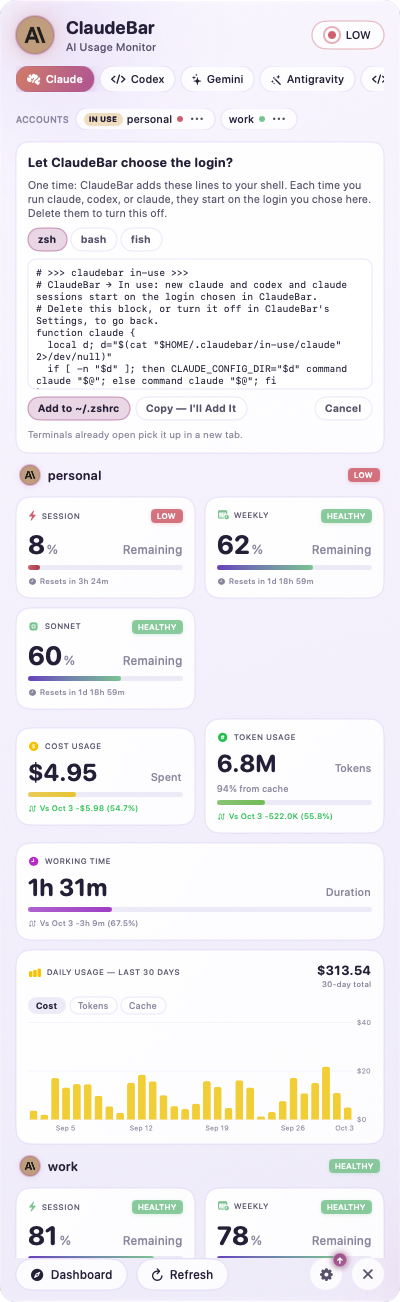
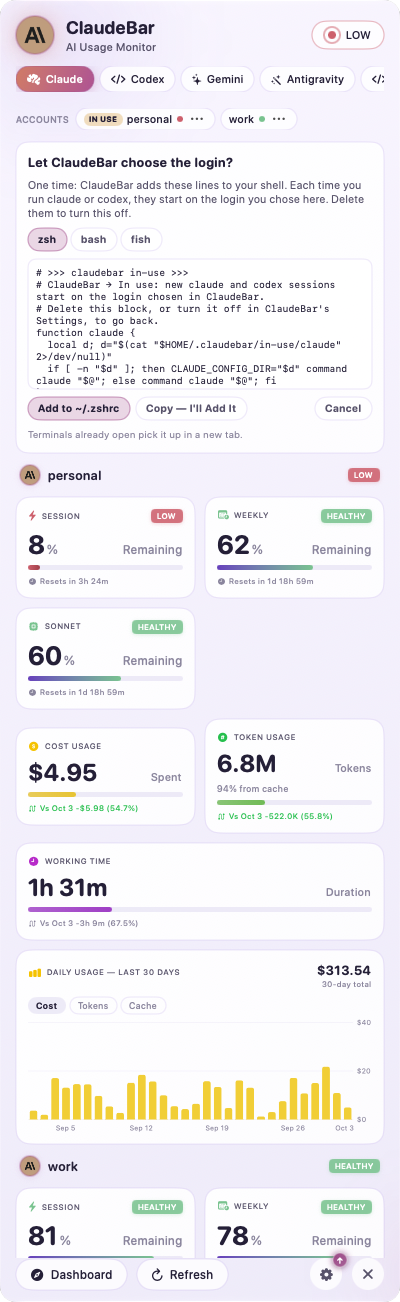
fix(in-use): the choice belongs to the CLI, wrapped once
The shell starts a CLI, not a product: the record is
~/.claudebar/in-use/<command>, two products on one CLI share it (the last
choice wins), and ShellSetup and NewSessions name each CLI once — the
setup no longer says "claude, codex, or claude" or writes claude twice.
Designed in CANONICAL §5 and the in-use design first, confirmed, then built.

diff --git a/Modules/Providers/Sources/InUse.swift b/Modules/Providers/Sources/InUse.swift
@@ -6,7 +6,9 @@ import Quotas
 /// *In use* — which of a product's logins new terminal sessions start with.
 /// Only a product whose CLI can be started on a login's folder has one
 /// (`Provider.inUse`). The choice is recorded as that folder, through
-/// `LoginsInUse`, where the shell lines read it; running sessions keep theirs.
+/// `LoginsInUse`, under the CLI's name — the shell starts a CLI, not a
+/// product, so two products on one CLI share its record and the last choice
+/// wins. Running sessions keep theirs.
 @MainActor
 @Observable
 public final class InUse {
@@ -27,7 +29,7 @@ public final class InUse {
         self.switchWhenLow = switchWhenLow
         self.loginId = provider.defaultAccount.id
         // A record naming a folder no login has is the plain login.
-        if let folder = record.folder(for: provider.id),
+        if let folder = record.folder(for: command.name),
            let chosen = provider.accounts.first(where: { $0.folder?.url.path == folder.standardizedFileURL.path }) {
             loginId = chosen.id
         }
@@ -51,7 +53,7 @@ public final class InUse {
         guard logins.contains(where: { $0 === account }) else {
             throw UsageError.executionFailed("This login can't be used for new \(provider.name) sessions.")
         }
-        try record.use(account.isDefault ? nil : account.folder?.url, for: provider.id)
+        try record.use(account.isDefault ? nil : account.folder?.url, for: command.name)
         loginId = account.id
         AppLog.providers.info("\(provider.id): new sessions use \(account.isDefault ? "the plain login" : "an added login")")
     }
@@ -59,7 +61,7 @@ public final class InUse {
     /// The removed login was in use: new sessions go back to the plain login.
     func forget(_ account: Account) {
         guard loginId == account.id else { return }
-        try? record.use(nil, for: provider.id)
+        try? record.use(nil, for: command.name)
         loginId = provider.defaultAccount.id
     }
 
@@ -96,14 +98,13 @@ public final class InUse {
 /// The command new terminal sessions run, and the variable that starts it on
 /// a login's folder: `claude` with `CLAUDE_CONFIG_DIR`.
 public struct TerminalCommand: Sendable, Equatable {
+    /// The CLI — and the name its choice is recorded under.
     public let name: String
     public let variable: String
-    public let providerId: String
 
-    public init(name: String, variable: String, providerId: String) {
+    public init(name: String, variable: String) {
         self.name = name
         self.variable = variable
-        self.providerId = providerId
     }
 }
 

diff --git a/Modules/Providers/Sources/LoginsInUse.swift b/Modules/Providers/Sources/LoginsInUse.swift
@@ -1,17 +1,17 @@
 import Foundation
 import Mockable
 
-/// *In use* — which login new terminal sessions of a provider start with:
-/// one file per provider, `~/.claudebar/in-use/<provider>`, holding the
+/// *In use* — which login new terminal sessions of a CLI start with: one
+/// file per CLI, `~/.claudebar/in-use/<command>`, holding the
 /// login's folder. Empty, or no file, is the plain login the CLI already
 /// uses. The shell lines `ShellSetup` writes read it on every `claude` or
 /// `codex`, so the file is the only record: nothing else keeps a copy.
 @Mockable
 public protocol LoginsInUse: Sendable {
-    /// The folder new sessions of `providerId` start with — `nil` for the plain login.
-    func folder(for providerId: String) -> URL?
+    /// The folder new sessions of `command` start with — `nil` for the plain login.
+    func folder(for command: String) -> URL?
     /// Saves it; `nil` goes back to the plain login.
-    func use(_ folder: URL?, for providerId: String) throws
+    func use(_ folder: URL?, for command: String) throws
 }
 
 /// The real files, under `~/.claudebar/in-use`.
@@ -25,20 +25,20 @@ public struct DiskLoginsInUse: LoginsInUse {
         self.root = root
     }
 
-    public func folder(for providerId: String) -> URL? {
-        guard let text = try? String(contentsOf: file(for: providerId), encoding: .utf8) else { return nil }
+    public func folder(for command: String) -> URL? {
+        guard let text = try? String(contentsOf: file(for: command), encoding: .utf8) else { return nil }
         let path = text.trimmingCharacters(in: .whitespacesAndNewlines)
         return path.isEmpty ? nil : URL(fileURLWithPath: path).standardizedFileURL
     }
 
-    public func use(_ folder: URL?, for providerId: String) throws {
+    public func use(_ folder: URL?, for command: String) throws {
         try FileManager.default.createDirectory(at: root, withIntermediateDirectories: true)
         // Written whole and renamed into place, so a shell never reads half a path.
-        try Data((folder?.standardizedFileURL.path ?? "").utf8).write(to: file(for: providerId), options: .atomic)
+        try Data((folder?.standardizedFileURL.path ?? "").utf8).write(to: file(for: command), options: .atomic)
     }
 
-    public func file(for providerId: String) -> URL {
-        root.appendingPathComponent(providerId)
+    public func file(for command: String) -> URL {
+        root.appendingPathComponent(command)
     }
 }
 

diff --git a/design-concept/in-use/as-built/index.html b/design-concept/in-use/as-built/index.html
@@ -70,8 +70,8 @@ figcaption{font-size:12px;color:var(--muted);max-width:320px}
       <div style="display:flex;flex-direction:column;gap:12px">
         <div class="issue"><span class="tag fix">1 · fixed</span><b>Built as the approved mockup</b>
           IN USE badge in the chip, ⋯ with <i>Use for New Sessions</i>, a one-line caption, the low banner; Settings: a radio on each account row. (It was a system <code>Menu</code> with a lone chevron.)</div>
-        <div class="issue"><span class="tag bad">2 · Design</span><b>"claude, codex, or claude" — and <code>function claude</code> twice in the lines</b>
-          Two products run the same CLI (built-in Claude and a custom provider on <code>claude</code>). The record is keyed by <b>product</b> (<code>in-use/&lt;provider&gt;</code>), but the shell wraps a <b>command</b>: one CLI can only start on one login. Each product writes its own function, so the second overrides the first, and the choice made in one product silently does nothing.</div>
+        <div class="issue"><span class="tag fix">2 · fixed</span><b>The record belongs to the CLI</b>
+          <code>~/.claudebar/in-use/&lt;command&gt;</code>; a CLI is wrapped once however many products run it, and the setup names each once — "claude or codex". (It said "claude, codex, or claude" and wrote <code>function claude</code> twice.)</div>
         <div class="issue"><span class="tag bad">3 · UI</span><b>The setup card pushes the usage down</b>
           It sits above the cards at full height. Acceptable as a one-time step, but the lines box could be collapsed behind <i>Show the lines</i>.</div>
       </div>

diff --git a/Tests/InfrastructureTests/InUse/ShellSetupTests.swift b/Tests/InfrastructureTests/InUse/ShellSetupTests.swift
@@ -15,8 +15,10 @@ struct ShellSetupTests {
         home = FileManager.default.temporaryDirectory.appendingPathComponent("shell-setup-\(UUID().uuidString)", isDirectory: true)
         try FileManager.default.createDirectory(at: home, withIntermediateDirectories: true)
         setup = ShellSetup(commands: [
-            TerminalCommand(name: "claude", variable: "CLAUDE_CONFIG_DIR", providerId: "claude"),
-            TerminalCommand(name: "codex", variable: "CODEX_HOME", providerId: "codex"),
+            TerminalCommand(name: "claude", variable: "CLAUDE_CONFIG_DIR"),
+            TerminalCommand(name: "codex", variable: "CODEX_HOME"),
+            // A second product on the same CLI: wrapped once all the same.
+            TerminalCommand(name: "claude", variable: "CLAUDE_CONFIG_DIR"),
         ], home: home)
     }
 
@@ -35,6 +37,14 @@ struct ShellSetupTests {
         #expect(LoginShell.login("/opt/homebrew/bin/fish") == .fish)
         #expect(LoginShell.login("/bin/zsh") == .zsh)
         #expect(LoginShell.login(nil) == .zsh)
+    }
+
+    @Test
+    func `a CLI is wrapped once, however many products run it`() {
+        let lines = setup.lines(for: .zsh)
+
+        #expect(lines.components(separatedBy: "function claude {").count == 2)
+        #expect(lines.contains("# ClaudeBar → In use: new claude and codex sessions"))
     }
 
     // MARK: - Install and remove

diff --git a/Modules/Providers/Tests/InUseTests.swift b/Modules/Providers/Tests/InUseTests.swift
@@ -20,7 +20,7 @@ struct InUseTests {
 
         let inUse = try #require(codex.inUse)
         #expect(inUse.login === codex.defaultAccount)
-        #expect(inUse.command == TerminalCommand(name: "codex", variable: "CODEX_HOME", providerId: "codex"))
+        #expect(inUse.command == TerminalCommand(name: "codex", variable: "CODEX_HOME"))
     }
 
     @Test
@@ -66,6 +66,22 @@ struct InUseTests {
         #expect(work.isInUse)
         #expect(!codex.defaultAccount.isInUse)
         #expect(stub.loginsInUse.folder(for: "codex") == work.folder?.url)
+    }
+
+    @Test
+    func `the choice is recorded under the CLI's name, so two products on one CLI share it`() throws {
+        let (stub, codex, work) = try InUseFixture.twoLogins()
+        defer { stub.cleanUp() }
+        // A second product running the same CLI, on the same record.
+        let other = try stub.makeProvider("codex", accounts: stub.settings.accounts(forProvider: "codex"))
+
+        try work.useForNewSessions()
+        try other.defaultAccount.useForNewSessions()
+
+        #expect(stub.loginsInUse.folder(for: "codex") == nil)
+        let again = try stub.makeProvider("codex", accounts: stub.settings.accounts(forProvider: "codex"))
+        #expect(again.inUse?.login === again.defaultAccount)
+        #expect(codex.inUse?.command.name == "codex")
     }
 
     @Test

diff --git a/Sources/Infrastructure/InUse/ShellSetup.swift b/Sources/Infrastructure/InUse/ShellSetup.swift
@@ -14,8 +14,11 @@ public struct ShellSetup: ShellLines {
     public let commands: [TerminalCommand]
     public let home: URL
 
+    /// A CLI is wrapped once, however many products run it.
     public init(commands: [TerminalCommand], home: URL = FileManager.default.homeDirectoryForCurrentUser) {
-        self.commands = commands
+        self.commands = commands.reduce(into: []) { kept, command in
+            if !kept.contains(where: { $0.name == command.name }) { kept.append(command) }
+        }
         self.home = home
     }
 
@@ -37,7 +40,7 @@ public struct ShellSetup: ShellLines {
     public func lines(for shell: LoginShell) -> String {
         let existing = (try? String(contentsOf: file(for: shell), encoding: .utf8)) ?? ""
         let body = commands.map { command -> String in
-            let record = "$HOME/.claudebar/in-use/\(command.providerId)"
+            let record = "$HOME/.claudebar/in-use/\(command.name)"
             if shell == .fish {
                 return """
                 function \(command.name)

diff --git a/Sources/Domain/InUse/NewSessions.swift b/Sources/Domain/InUse/NewSessions.swift
@@ -84,8 +84,13 @@ public final class NewSessions {
         }
     }
 
-    /// The commands the lines wrap — `claude`, `codex`.
-    public var commands: [String] { products.compactMap { $0.inUse?.command.name } }
+    /// The CLIs the lines wrap — `claude`, `codex` — each once, however many
+    /// products run it.
+    public var commands: [String] {
+        products.compactMap { $0.inUse?.command.name }.reduce(into: []) { kept, name in
+            if !kept.contains(name) { kept.append(name) }
+        }
+    }
 
     /// The lines as the setup shows them, and the file they go in.
     public var lines: String { shellLines.lines(for: shell) }

diff --git a/Modules/Providers/Sources/Provider.swift b/Modules/Providers/Sources/Provider.swift
@@ -104,7 +104,7 @@ public final class Provider {
             return left < right
         }.map(\.element)
         if let loginsInUse, let call = definition.accounts?.signIn, definition.accounts?.folder != nil {
-            inUse = InUse(provider: self, command: TerminalCommand(name: call.cli, variable: call.homeVariable, providerId: definition.id),
+            inUse = InUse(provider: self, command: TerminalCommand(name: call.cli, variable: call.homeVariable),
                           record: loginsInUse, switchWhenLow: SwitchWhenLow(providerId: definition.id, settings: settings))
         }
     }

diff --git a/Modules/Providers/Tests/Support/InMemoryLoginsInUse.swift b/Modules/Providers/Tests/Support/InMemoryLoginsInUse.swift
@@ -11,11 +11,11 @@ final class InMemoryLoginsInUse: LoginsInUse, @unchecked Sendable {
         folders = existing
     }
 
-    func folder(for providerId: String) -> URL? {
-        lock.withLock { folders[providerId] }
+    func folder(for command: String) -> URL? {
+        lock.withLock { folders[command] }
     }
 
-    func use(_ folder: URL?, for providerId: String) throws {
-        lock.withLock { folders[providerId] = folder?.standardizedFileURL }
+    func use(_ folder: URL?, for command: String) throws {
+        lock.withLock { folders[command] = folder?.standardizedFileURL }
     }
 }

diff --git a/Tests/DomainTests/InUse/NewSessionsTests.swift b/Tests/DomainTests/InUse/NewSessionsTests.swift
@@ -166,8 +166,8 @@ struct NewSessionsTests {
     }
 
     @Test
-    func `the commands are the products' own`() {
-        let sessions = NewSessions(products: [codex()], shellLines: lines, shell: .zsh)
+    func `each CLI is named once, however many products run it`() {
+        let sessions = NewSessions(products: [codex(), codex()], shellLines: lines, shell: .zsh)
 
         #expect(sessions.commands == ["codex"])
     }

diff --git a/docs/architecture/CANONICAL_MODEL.md b/docs/architecture/CANONICAL_MODEL.md
@@ -394,7 +394,8 @@ definition.missingSettings           → [Setting]    Import: "Key needed"
 | one definition serves every account: the account's values fill `{{account.x}}` when the fetch runs; a data source is never copied per login | `DataSource` |
 | status is QUOTA health, derived from usage; a failed fetch is FETCH health, in `sync` — a key that expired never turns the menu bar red | `Account.status` · `Account.sync` |
 | *in use* is the TERMINAL's choice, not the monitor's: every enabled login is still fetched and shown; only new `claude` / `codex` sessions start on the login in use. It is not the `active` account the law above rules out | `InUse` |
-| the login in use is the plain login or a folder login of the same product; only its folder is recorded, nowhere else; nothing recorded, or a folder no login has, is the plain login; removing it goes back to the plain login | `InUse` · `LoginsInUse` |
+| the login in use is the plain login or a folder login of the same product; only its folder is recorded, nowhere else, **under its CLI's name** (`in-use/claude`) — the shell starts a CLI, not a product; nothing recorded, or a folder no login has, is the plain login; removing it goes back to the plain login | `InUse` · `LoginsInUse` |
+| **a CLI is wrapped once**, however many products run it: two products on `claude` share its record, and the last choice wins | `NewSessions` (its commands, each once) · `ShellSetup` |
 | a choice waits for the shell lines, and the plain login never waits; turning off removes the lines and puts every CLI back on its plain login | `NewSessions` |
 | *Switch when low* is off until turned on, moves only below its threshold, only to a ticked login with more left, and never touches a running session; a login worth switching to is told once per low | `SwitchWhenLow` · `InUse.review` |
 | the Monitor knows nothing that follows a refresh: In use, and anything after it, observes through `onRefreshed` | `QuotaMonitor` |
@@ -538,7 +539,7 @@ context and what it depends on, so `QuotaTests` stop linking six AWS SDKs.
 | `StatusPolicy` | **built** (#357): `StatusPolicy` in `Quotas` with `quota.status(under:)` / `usage.overallStatus(under:)`; `QuotaMonitor.statusPolicy` read live from the burn-rate settings; alerts, pills, cards, Touch Bars, status export and Notify! all read under it. Left: `menuBarLabel(…)` still takes the two burn-rate values instead of the policy, and pace falls back to `quotaType.duration` when no window is known | the menu-bar label takes the policy; the `Window` law removes the guess; `StatusColorPolicy` (colours, high contrast) moves to the App |
 | `Account.budget` | two one-off settings: `app.claudeApiBudget` (+ `…Enabled`, edited in Claude's card) and `bedrock.dailyBudget`; Bedrock turns its budget into a fake `Daily Budget` quota | a `Budget` beside the account's `Cost`, judged as `BudgetStatus`, never a quota; the old keys read as the default account's budget |
 | page state | `MenuBarLabel`, `CountdownColon`, `PopoverContentHeight`, `MenuBarStackedSize` in `Domain/Provider`; `menuBarLabel(…)` on `QuotaMonitor` | the App |
-| In use | **built** (`feat/in-use`): `provider.inUse` from `accounts.signIn`, `LoginsInUse` (`~/.claudebar/in-use/<provider>`), `SwitchWhenLow`, `NewSessions` + `ShellSetup` (zsh, bash, fish), `QuotaMonitor.onRefreshed`, `InUseAnnouncer` → `InUseNotifications`, `claudebar://use` — [in-use design](../features/in-use/design.md) | an env-variable record for API-key providers |
+| In use | **built** (`feat/in-use`): `provider.inUse` from `accounts.signIn`, `LoginsInUse` (`~/.claudebar/in-use/<command>`, one per CLI), `SwitchWhenLow`, `NewSessions` + `ShellSetup` (zsh, bash, fish), `QuotaMonitor.onRefreshed`, `InUseAnnouncer` → `InUseNotifications`, `claudebar://use` — [in-use design](../features/in-use/design.md) | an env-variable record for API-key providers |
 | `ProviderDefinition` · *Add Provider* | **built** (#354): *Start from API · CLI · File · Copy a provider* → *Connect* (*Test Connection*) → *Map fields* (click a value, live card; money, % used/left, a balance; a CLI's text by its line) → *Look* → *Save*; `ProviderDraft` → `ProviderCatalog` (`~/.claudebar/providers/<id>.json`, origin custom, minted id) and the key in the vault (`setting`); *Delete*. Not yet: *Edit*, several quotas from one response. **Export/Import built** (#355): `exported()` names keys, never holds them; `review(file)` shows where a key goes, every command (Add waits for *I trust this command*), the keys needed; a taken id is re-minted | Edit |
 
 ### The order of the work

diff --git a/docs/features/in-use/design.md b/docs/features/in-use/design.md
@@ -26,7 +26,7 @@ In use is a **capability** ([CANONICAL §2.1](../../architecture/CANONICAL_MODEL
  NewSessions (Domain) ── lines not in the shell? ── waits ──▶ setUp · setUpByHand · cancel · turnOff
         │                                                    └── ShellLines (port) ← ShellSetup
         ▼
- provider.inUse: InUse (Providers) ── use(login) ──▶ LoginsInUse (port) → ~/.claudebar/in-use/<provider>
+ provider.inUse: InUse (Providers) ── use(login) ──▶ LoginsInUse (port) → ~/.claudebar/in-use/<command>
         ▲                                                                          │ read on every run
  QuotaMonitor.onRefreshed ─▶ newSessions.review ─▶ inUse.review()                 ▼
         (knows no In use)        └─▶ InUseAnnouncer (port) ← InUseNotifications   $ claude → CLAUDE_CONFIG_DIR=<folder>
@@ -40,7 +40,7 @@ No token is copied: each login keeps its own Keychain item and refresh token. No
 |---|---|---|
 | **in use** | the login new terminal sessions of a CLI start with | the *default* login (the plain one the CLI uses on its own), the *selected* chip, an *active* account (every login is still fetched) |
 | **new terminal sessions** | the next `claude` / `codex` run from a shell with the lines | running sessions, Claude Desktop, IDE extensions |
-| **the record** | `~/.claudebar/in-use/<provider>`: the folder, or empty for the plain login | settings.json (keeps no copy) |
+| **the record** | `~/.claudebar/in-use/<command>` — one per CLI (`claude`, `codex`): the folder, or empty for the plain login | settings.json (keeps no copy); a product's id |
 | **the shell lines** | the block between `# >>> claudebar in-use >>>` markers, or fish's own file | the user's own aliases and exports |
 | **worth switching** | the login in use is critical or out, and another has more left | *Switch when low* (acts, opt-in) |
 
@@ -84,7 +84,8 @@ Views never compare accounts, inspect folders, count logins or read quotas.
 | Law | Owner |
 |---|---|
 | The login in use is the plain login or a folder login of the same product; nothing recorded, or a folder no login has, is the plain login | `InUse` |
-| Only the folder is recorded, nowhere else | `LoginsInUse` / `DiskLoginsInUse` |
+| Only the folder is recorded, nowhere else, under the CLI's name | `LoginsInUse` / `DiskLoginsInUse`, keyed by `InUse.command.name` |
+| A CLI is wrapped once, however many products run it; two products on one CLI share its record, the last choice wins, and the other shows its plain login | `NewSessions.commands` (each once) · `ShellSetup` |
 | Removing the login in use goes back to the plain login | `InUse.forget`, told by `Provider.remove` |
 | A login worth switching to is told once per low | `InUse.review` |
 | *Switch when low* is off until turned on, moves only below its threshold to a ticked login with more left | `SwitchWhenLow` |
